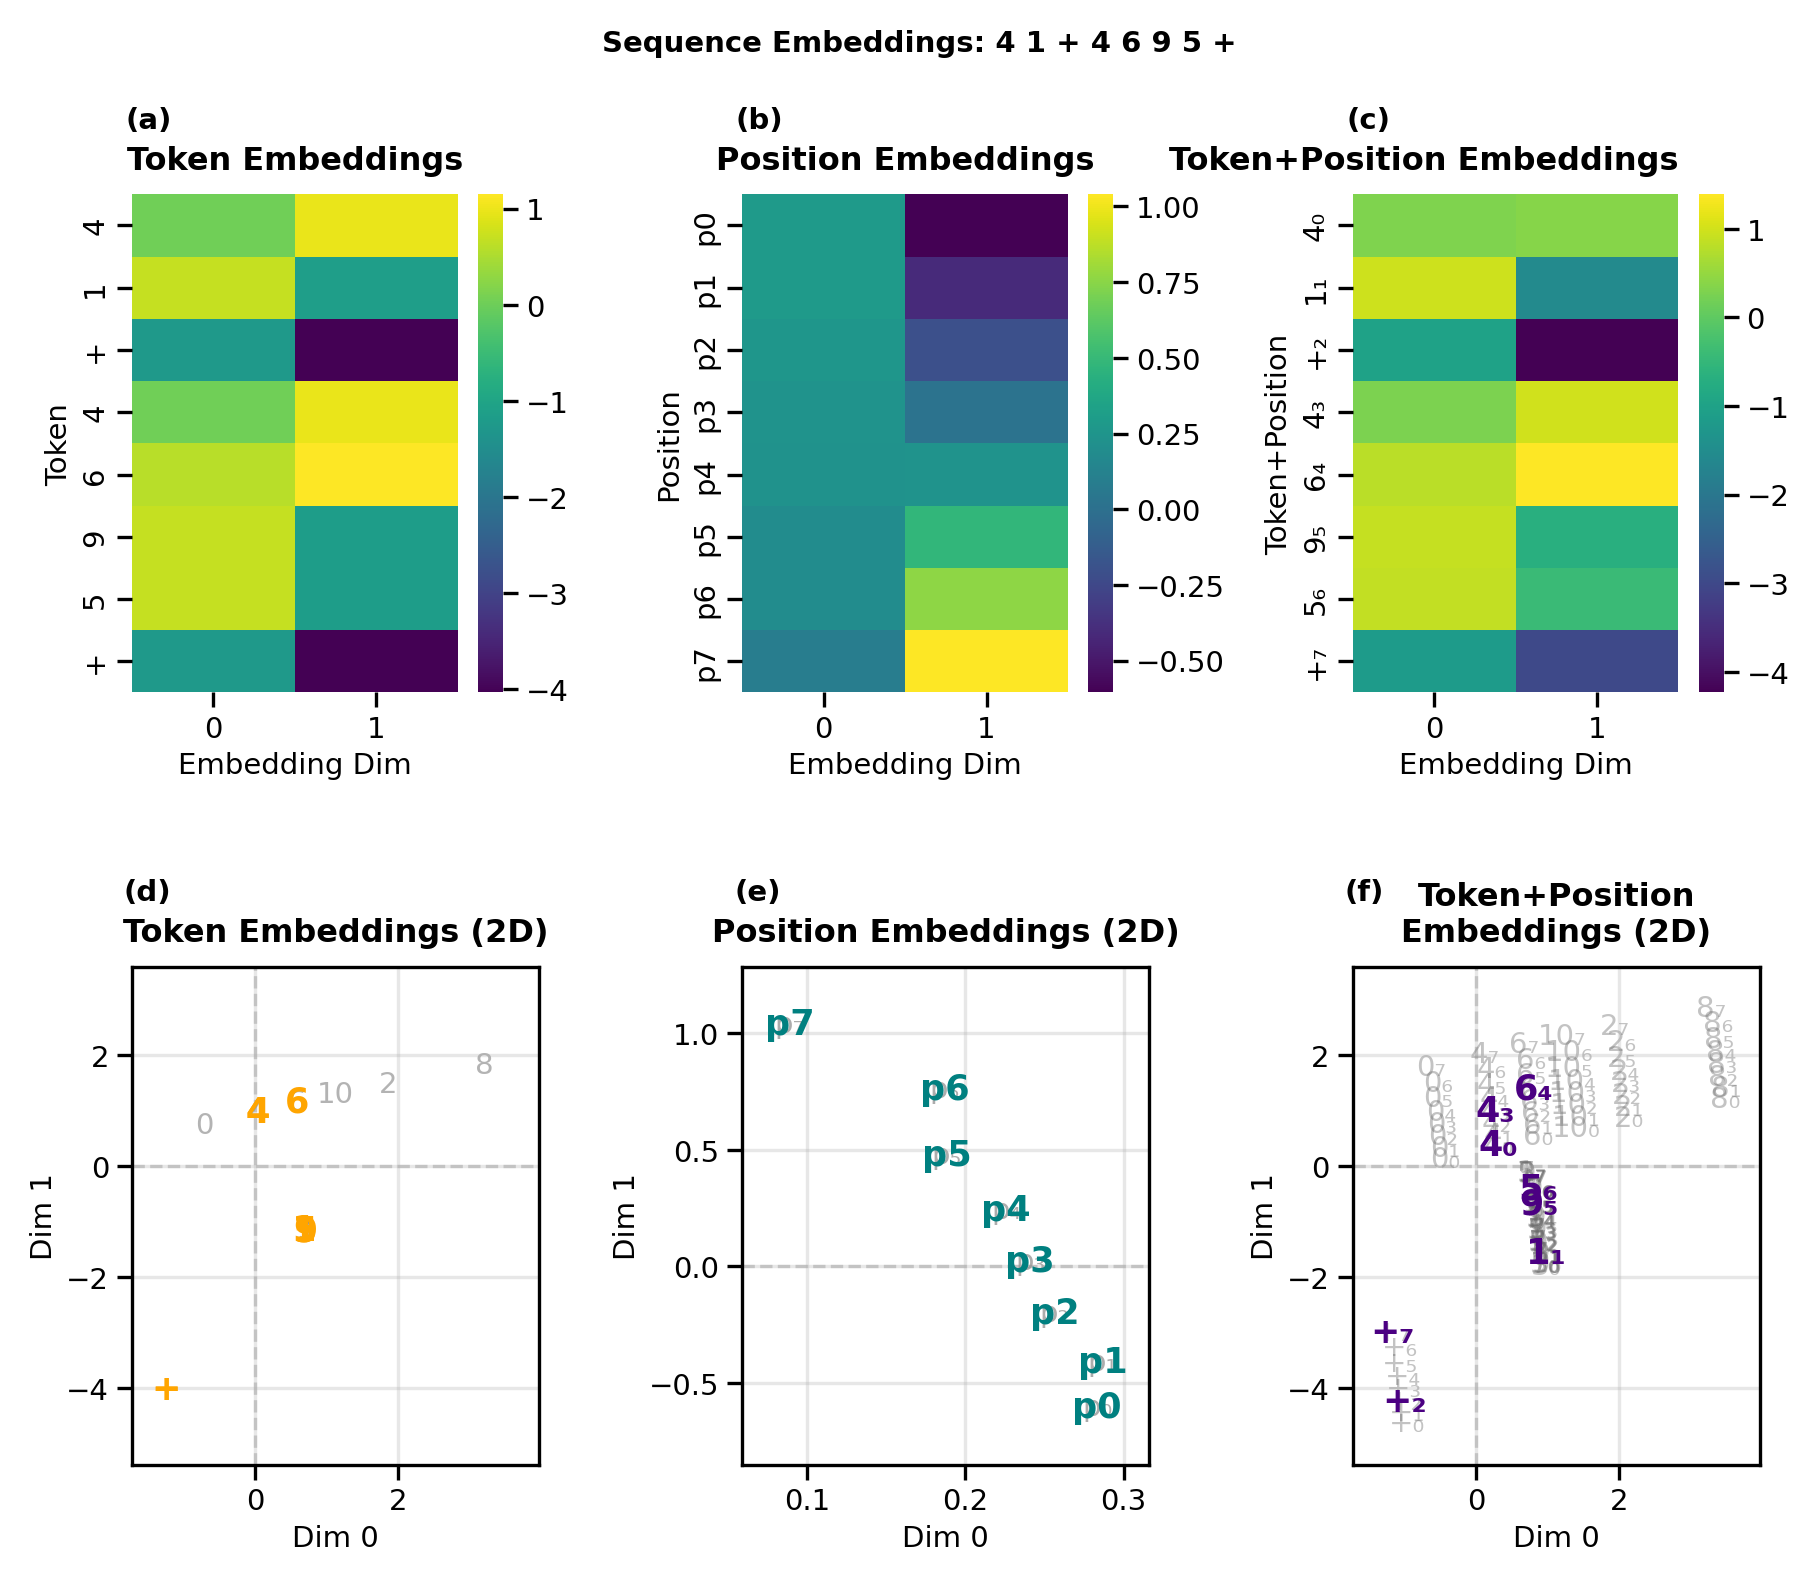
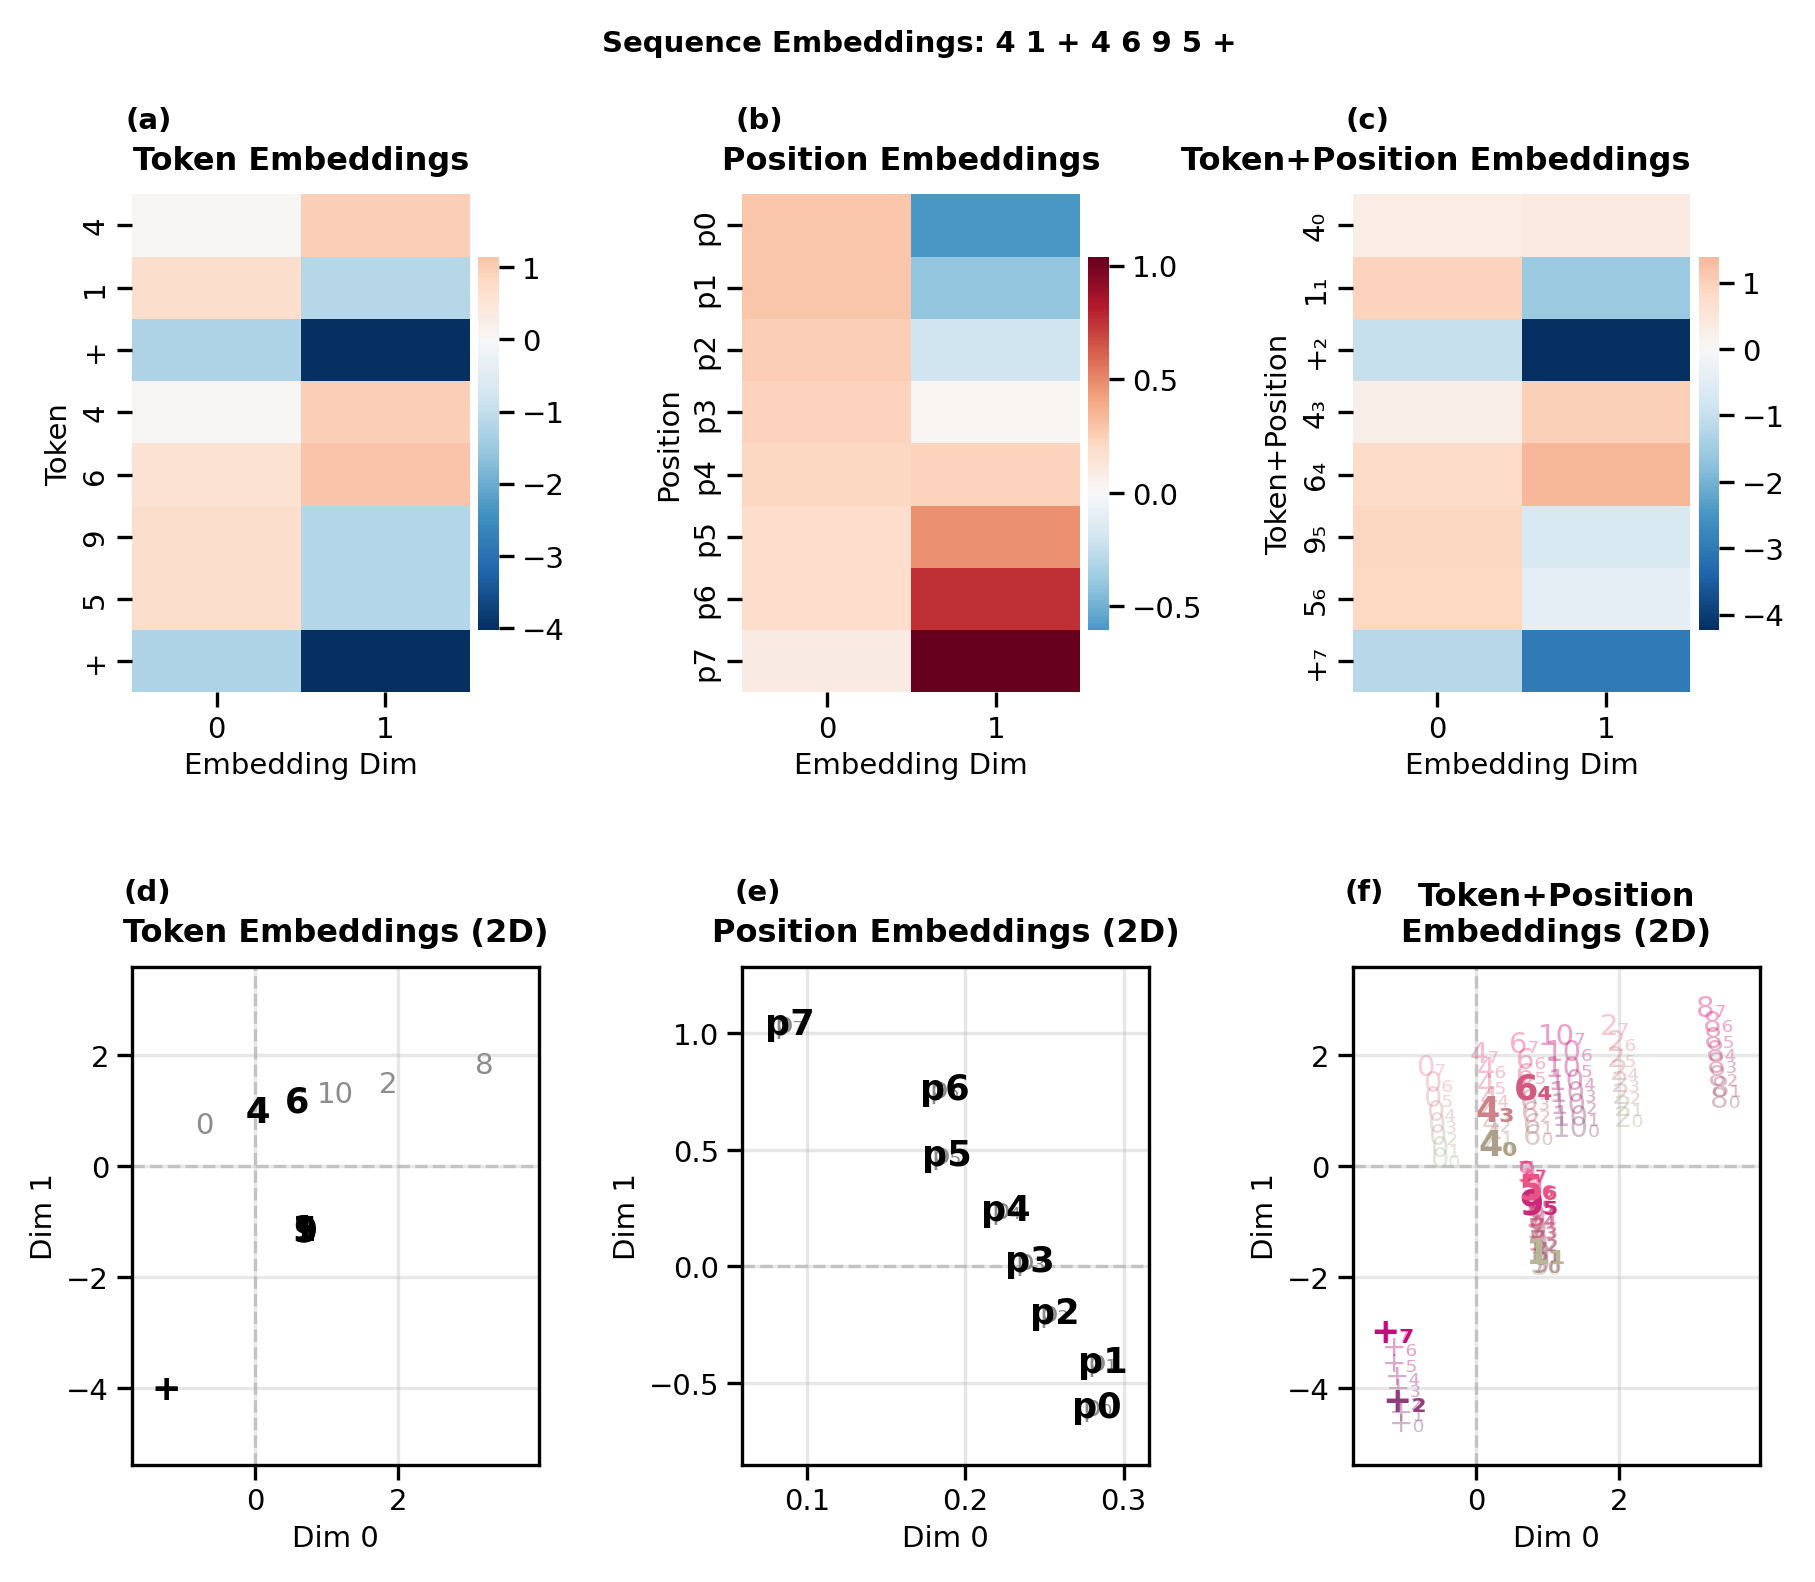
final pdf

diff --git a/plotting/13_sequence_embeddings.py b/plotting/13_sequence_embeddings.py
@@ -76,6 +76,20 @@ def plot_sequence_embeddings(model, X, itos, save_path=None):
         for pos_idx in range(block_size):
             idx = token_idx * block_size + pos_idx
             all_combined_emb[idx] = all_token_emb[token_idx] + all_pos_emb[pos_idx]
+
+    # Match Figure 5 (plot_embeddings_pca): RdBu_r heatmaps; black token/position
+    # scatter labels; token+position labels = blend(YlOrRd token, cool position).
+    token_cmap = plt.cm.get_cmap("YlOrRd")
+    token_colors = [token_cmap(0.3 + 0.6 * i / max(vocab_size - 1, 1)) for i in range(vocab_size)]
+    pos_cmap = plt.cm.get_cmap("cool")
+    pos_colors = [pos_cmap(0.2 + 0.7 * i / max(block_size - 1, 1)) for i in range(block_size)]
+
+    def blend_colors(token_color, pos_color, token_weight=0.6):
+        tc = np.array(mcolors.to_rgb(token_color))
+        pc = np.array(mcolors.to_rgb(pos_color))
+        return tuple(token_weight * tc + (1 - token_weight) * pc)
+
+    _cbar_kw = {"shrink": 0.75, "aspect": 18, "pad": 0.02} if _u._JOURNAL_MODE else {"pad": 0.02}
     
     # Create figure: 2 rows, 3 columns with equal row heights
     if _u._JOURNAL_MODE:
@@ -91,8 +105,16 @@ def plot_sequence_embeddings(model, X, itos, save_path=None):
         _axis_fs = 10 if _u._JOURNAL_MODE else 12
         # Column 1: Token embeddings heatmap
         ax1 = fig.add_subplot(gs[0, 0])
-        sns.heatmap(token_emb_np, cmap="viridis", xticklabels=list(range(n_embd)),
-                    yticklabels=tokens, cbar=True, ax=ax1)
+        sns.heatmap(
+            token_emb_np,
+            cmap="RdBu_r",
+            center=0,
+            xticklabels=list(range(n_embd)),
+            yticklabels=tokens,
+            cbar=True,
+            cbar_kws=_cbar_kw,
+            ax=ax1,
+        )
         ax1.set_title("Token Embeddings", fontsize=_title_fs, fontweight='bold', pad=6)
         ax1.set_xlabel("Embedding Dim", fontsize=_axis_fs)
         ax1.set_ylabel("Token", fontsize=_axis_fs)
@@ -100,8 +122,16 @@ def plot_sequence_embeddings(model, X, itos, save_path=None):
         # Column 2: Position embeddings heatmap
         ax2 = fig.add_subplot(gs[0, 1])
         pos_labels = [f"p{i}" for i in range(T)]
-        sns.heatmap(pos_emb_np, cmap="viridis", xticklabels=list(range(n_embd)),
-                    yticklabels=pos_labels, cbar=True, ax=ax2)
+        sns.heatmap(
+            pos_emb_np,
+            cmap="RdBu_r",
+            center=0,
+            xticklabels=list(range(n_embd)),
+            yticklabels=pos_labels,
+            cbar=True,
+            cbar_kws=_cbar_kw,
+            ax=ax2,
+        )
         ax2.set_title("Position Embeddings", fontsize=_title_fs, fontweight='bold', pad=6)
         ax2.set_xlabel("Embedding Dim", fontsize=_axis_fs)
         ax2.set_ylabel("Position", fontsize=_axis_fs)
@@ -109,8 +139,16 @@ def plot_sequence_embeddings(model, X, itos, save_path=None):
         # Column 3: Combined embeddings heatmap
         ax3 = fig.add_subplot(gs[0, 2])
         labels = [_token_pos_label(tokens[i], i) for i in range(T)]
-        sns.heatmap(combined_emb_np, cmap="viridis", xticklabels=list(range(n_embd)),
-                    yticklabels=labels, cbar=True, ax=ax3)
+        sns.heatmap(
+            combined_emb_np,
+            cmap="RdBu_r",
+            center=0,
+            xticklabels=list(range(n_embd)),
+            yticklabels=labels,
+            cbar=True,
+            cbar_kws=_cbar_kw,
+            ax=ax3,
+        )
         ax3.set_title("Token+Position Embeddings", fontsize=_title_fs, fontweight='bold', pad=6, loc='right')
         ax3.set_xlabel("Embedding Dim", fontsize=_axis_fs)
         ax3.set_ylabel("Token+Position", fontsize=_axis_fs)
@@ -163,13 +201,13 @@ def plot_sequence_embeddings(model, X, itos, save_path=None):
                 all_token_emb[token_idx, 1],
                 token_str,
                 fontsize=_scatter_bg,
-                alpha=0.5,
+                alpha=0.45,
                 ha="center",
                 va="center",
-                color="dimgray",
+                color="black",
                 zorder=1,
             )
-        # Foreground: tokens from THIS sequence (unchanged labels)
+        # Foreground: tokens from THIS sequence (Figure 5 token scatter = black)
         ax4.scatter(token_emb_np[:, 0], token_emb_np[:, 1], s=0, alpha=0, zorder=2)
         for i, token in enumerate(tokens):
             ax4.text(
@@ -180,7 +218,7 @@ def plot_sequence_embeddings(model, X, itos, save_path=None):
                 fontweight="bold",
                 ha="center",
                 va="center",
-                color="orange",
+                color="black",
                 zorder=3,
             )
         ax4.set_title("Token Embeddings (2D)", fontsize=_title_fs, fontweight='bold', pad=6)
@@ -202,13 +240,13 @@ def plot_sequence_embeddings(model, X, itos, save_path=None):
                 all_pos_emb[pos_idx, 1],
                 _pos_only_label(pos_idx),
                 fontsize=_scatter_bg,
-                alpha=0.55,
+                alpha=0.45,
                 ha="center",
                 va="center",
-                color="dimgray",
+                color="black",
                 zorder=1,
             )
-        # Foreground: positions used in THIS sequence
+        # Foreground: positions used in THIS sequence (Figure 5 position scatter = black)
         ax5.scatter(pos_emb_np[:, 0], pos_emb_np[:, 1], s=0, alpha=0, zorder=2)
         for i in range(T):
             ax5.text(
@@ -219,7 +257,7 @@ def plot_sequence_embeddings(model, X, itos, save_path=None):
                 fontweight="bold",
                 ha="center",
                 va="center",
-                color="teal",
+                color="black",
                 zorder=3,
             )
         ax5.set_title("Position Embeddings (2D)", fontsize=_title_fs, fontweight='bold', pad=6)
@@ -247,6 +285,7 @@ def plot_sequence_embeddings(model, X, itos, save_path=None):
             for pos_idx in range(block_size):
                 idx = token_idx * block_size + pos_idx
                 label = _token_pos_label(token_str, pos_idx)
+                bg_rgb = blend_colors(token_colors[token_idx], pos_colors[pos_idx])
                 ax6.text(
                     all_combined_emb[idx, 0],
                     all_combined_emb[idx, 1],
@@ -255,12 +294,14 @@ def plot_sequence_embeddings(model, X, itos, save_path=None):
                     alpha=0.4,
                     ha="center",
                     va="center",
-                    color="dimgray",
+                    color=bg_rgb,
                     zorder=1,
                 )
-        # Foreground: (token, position) pairs from THIS sequence
+        # Foreground: (token, position) pairs from THIS sequence (Figure 5 blended colors)
         ax6.scatter(combined_emb_np[:, 0], combined_emb_np[:, 1], s=0, alpha=0, zorder=2)
         for i in range(T):
+            tid = int(X[0, i].item())
+            fg_rgb = blend_colors(token_colors[tid], pos_colors[i])
             ax6.text(
                 combined_emb_np[i, 0],
                 combined_emb_np[i, 1],
@@ -269,7 +310,7 @@ def plot_sequence_embeddings(model, X, itos, save_path=None):
                 fontweight="bold",
                 ha="center",
                 va="center",
-                color="indigo",
+                color=fg_rgb,
                 zorder=3,
             )
         ax6.set_title("Token+Position\nEmbeddings (2D)", fontsize=_title_fs, fontweight='bold', pad=6)

diff --git a/paper.tex b/paper.tex
@@ -202,6 +202,7 @@ integers \(\{0, \ldots, 10\}\) and a special operator \texttt{+}.
 Sequence generation obeys:
 
 \begin{itemize}
+\tightlist
 \item
   \textbf{Retrieval rule:} If \texttt{+} occurs at position \(t\), the
   output at \(t+1\) must be the most recent even integer

diff --git a/Paper.md b/Paper.md
@@ -126,7 +126,6 @@ P(t_{i+1} \mid \mathbf{h}_i) &= \mathrm{softmax}\!\left(\mathbf{h}_i \, W_{\math
 \end{aligned}
 $$
 
-
 ![Figure 1. Architecture of the minimal transformer. Every component operates entirely in $\mathbb{R}^2$.](plus_last_even/plots/a4/01_architecture_overview.png)
 
 ---